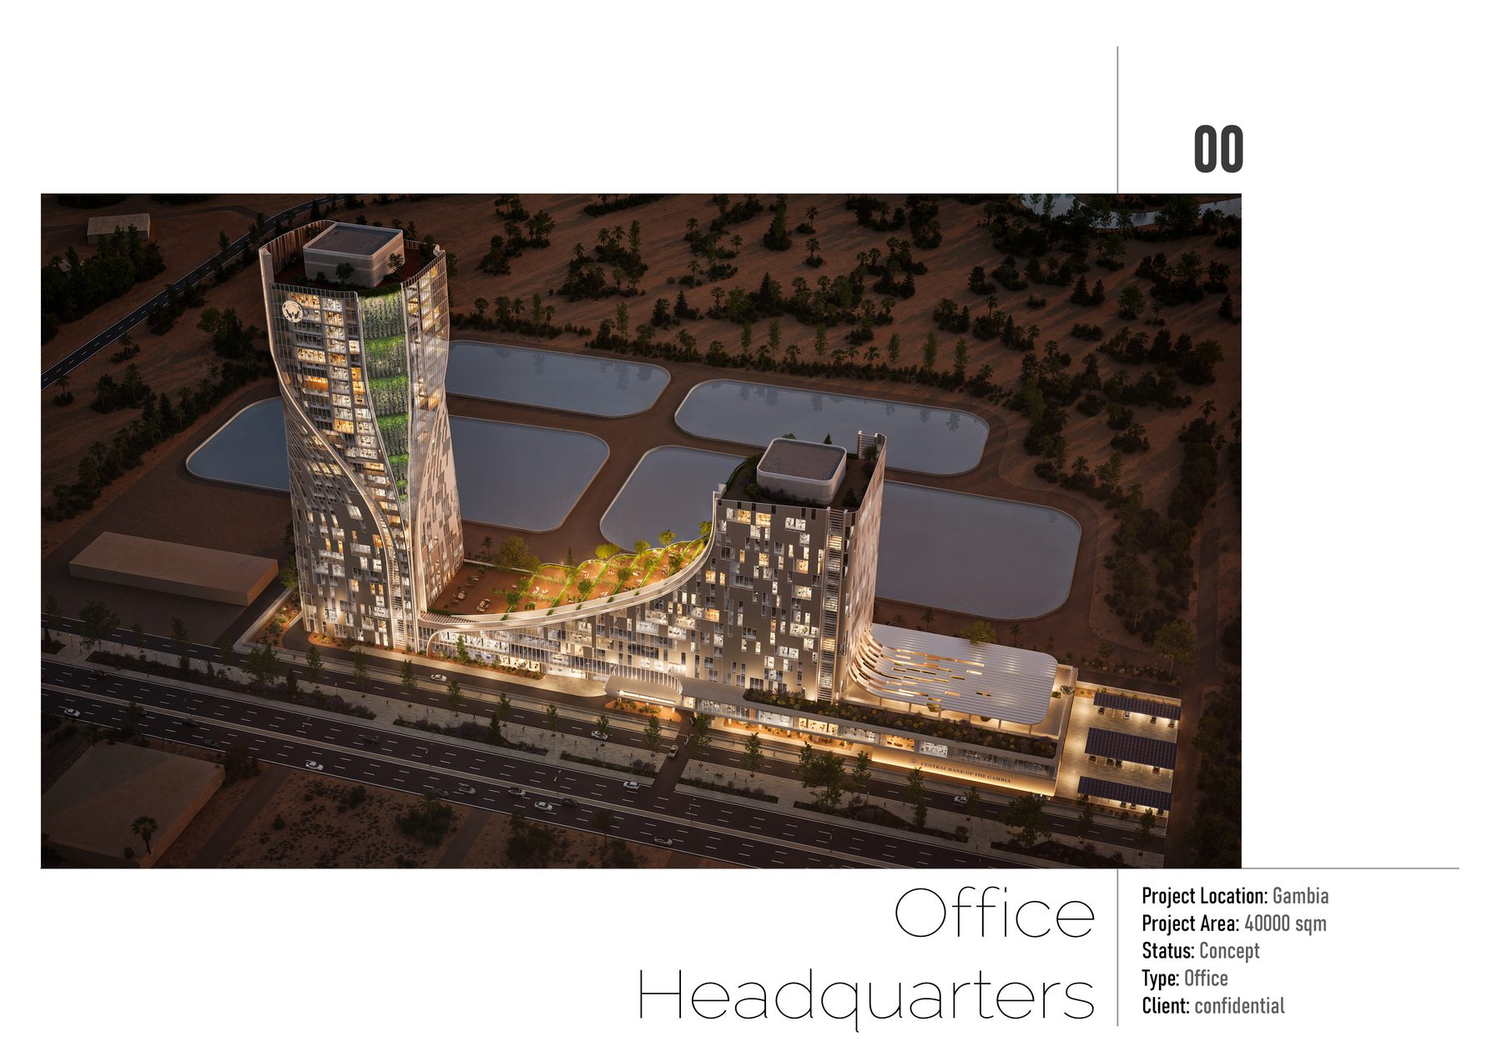
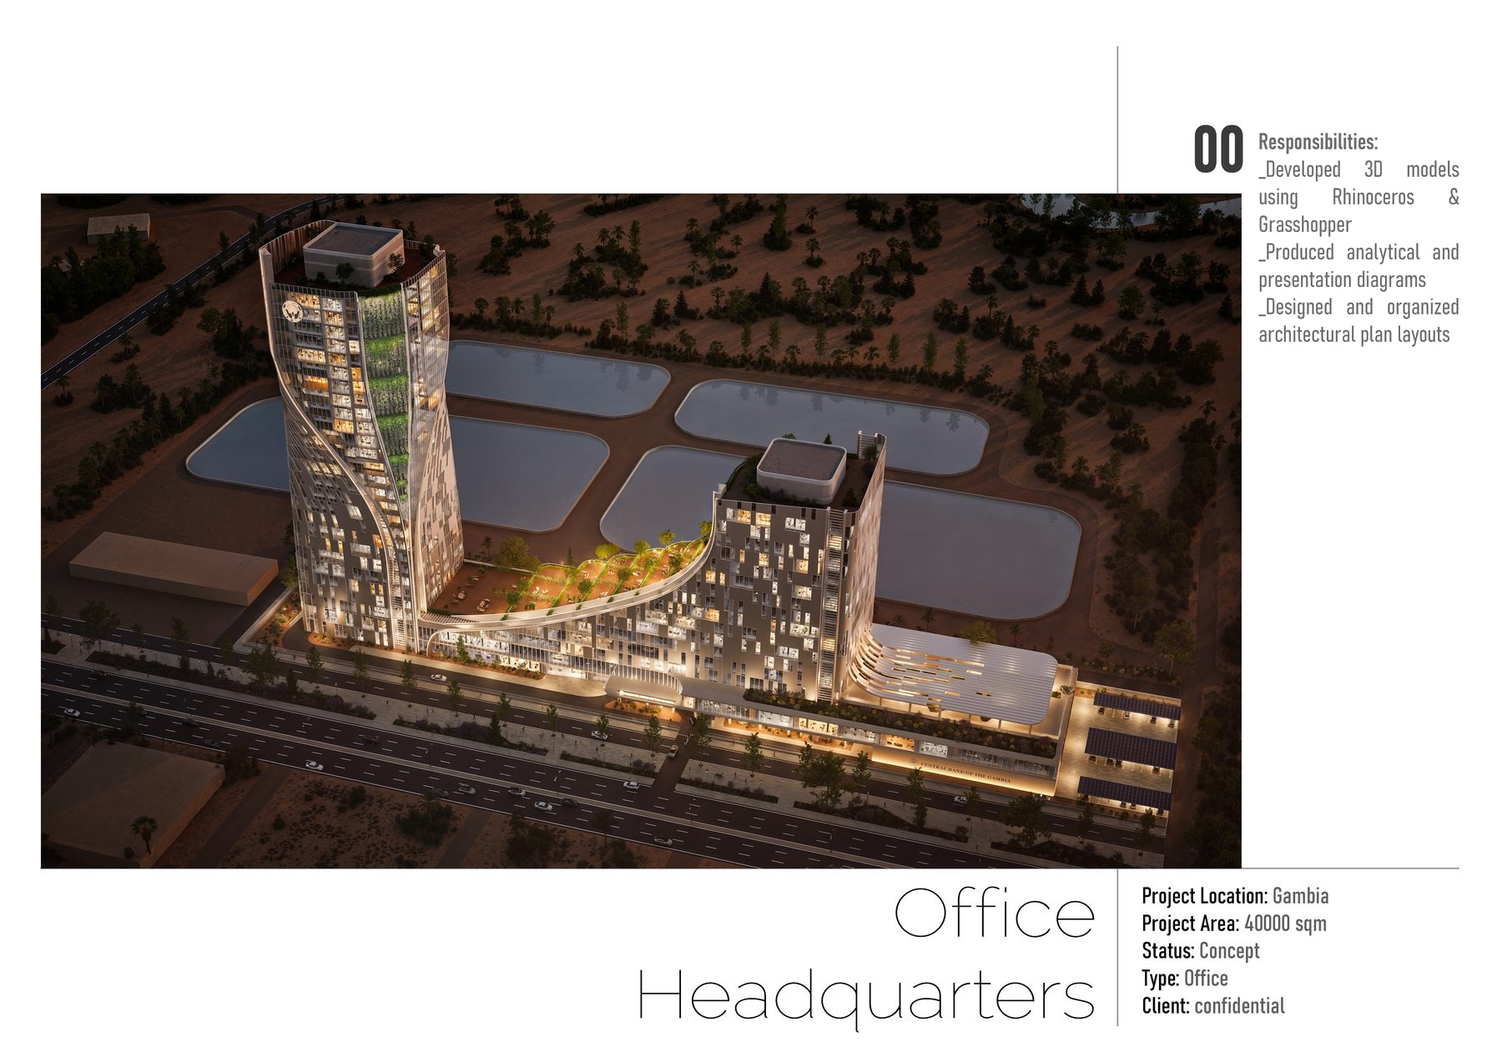
Masters/Professional: BIM projects, Program Sync + Heart pages, NKY responsibilities
Add BIM & Smart Construction cards (Hyperbuilding 02 The Heart, Program
Sync). Rework Program Sync: merged problem/solution and workflow into
large horizontal drag-scroll galleries, written success criteria, Vue
app after results. Rebuild the studio page as Hyperbuilding 02, The
Heart, focused on Program definition and KPI-driven design; combine
design intent and site side by side and remove the stray Hyperbuilding
03 label. Add responsibilities block to the Central Bank board on
Professional. Add large hscroll variant to styles.

Changed region(s): [[0.84, 0.1225, 0.9644, 0.337]]

diff --git a/masters-bimsc-studio.html b/masters-bimsc-studio.html
@@ -3,8 +3,8 @@
 <head>
   <meta charset="UTF-8" />
   <meta name="viewport" content="width=device-width, initial-scale=1.0" />
-  <title>Nihan Malkoç, Vertical Machine (BIM Studio)</title>
-  <meta name="description" content="Vertical Machine, a closed-loop cluster of hyperbuildings for Santiago, Chile. BIM & Smart Construction studio, MaCAD, IAAC." />
+  <title>Nihan Malkoç, Hyperbuilding 02 The Heart (BIM Studio)</title>
+  <meta name="description" content="Hyperbuilding 02, The Heart, a program-integrated transit hub in the Vertical Machine cluster for Santiago. Program definition and KPI-driven design, BIM & Smart Construction studio, MaCAD, IAAC." />
   <link rel="preconnect" href="https://fonts.googleapis.com" />
   <link rel="preconnect" href="https://fonts.gstatic.com" crossorigin />
   <link href="https://fonts.googleapis.com/css2?family=Inter:wght@300;400;500;600;700&display=swap" rel="stylesheet" />
@@ -36,91 +36,112 @@
     <section class="section works">
       <div class="section-head">
         <span class="section-index">02</span>
-        <h2 class="section-title">Vertical Machine</h2>
-        <span class="works-sub">BIM &amp; Smart Construction · Studio</span>
+        <h2 class="section-title">Hyperbuilding 02, The Heart</h2>
+        <span class="works-sub">Program &amp; KPIs · Vertical Machine · BIMSC Studio</span>
       </div>
 
       <div class="tp-intro" data-reveal>
         <p class="tp-lead-big">
-          Santiago's basin traps smog, fragments communities, and strains resources.
-          <b>Vertical Machine</b> answers with a cluster of three hyperbuildings, a
-          closed-loop urban metabolism where each building behaves like an organ:
-          the <b>Lungs</b> (HB01) filter air, the <b>Heart</b> (HB02) pumps circulation
-          and energy, and the <b>Cells</b> (HB03) hold spatial and social life. I worked
-          on the <b>Program team of Hyperbuilding 02, The Heart</b>.
+          <b>Vertical Machine</b> is a cluster of three hyperbuildings for Santiago,
+          conceived as a closed-loop urban body: the <b>Lungs</b> (HB01) filter air and
+          water, the <b>Heart</b> (HB02) moves people and energy, and the <b>Cells</b>
+          (HB03) hold daily life, all linked by a shared data nervous system. This page is
+          <b>Hyperbuilding 02, The Heart</b>, a program-integrated transit hub, where I
+          worked on the <b>Program team</b>, responsible for program definition and
+          KPI-driven design.
         </p>
 
         <ul class="feat-row">
           <li>
+            <svg viewBox="0 0 24 24" fill="none" stroke="currentColor" stroke-width="1.6" aria-hidden="true"><path d="M4 5h7v7H4zM13 5h7v4h-7zM13 12h7v7h-7zM4 15h7v4H4z" stroke-linejoin="round"/></svg>
+            <div><strong>Program definition</strong><span>mobility and data turned into zoning</span></div>
+          </li>
+          <li>
+            <svg viewBox="0 0 24 24" fill="none" stroke="currentColor" stroke-width="1.6" aria-hidden="true"><path d="M4 20V4M4 20h16M8 17v-5M12 17V8M16 17v-9" stroke-linecap="round"/></svg>
+            <div><strong>KPI-driven design</strong><span>every move argued with numbers</span></div>
+          </li>
+          <li>
             <svg viewBox="0 0 24 24" fill="none" stroke="currentColor" stroke-width="1.6" aria-hidden="true"><path d="M12 21C7 17 4 13 4 9a4 4 0 0 1 8-1 4 4 0 0 1 8 1c0 4-3 8-8 12z" stroke-linejoin="round"/></svg>
-            <div><strong>Buildings as organs</strong><span>a closed-loop urban body</span></div>
-          </li>
-          <li>
-            <svg viewBox="0 0 24 24" fill="none" stroke="currentColor" stroke-width="1.6" aria-hidden="true"><circle cx="6" cy="6" r="2.4"/><circle cx="18" cy="18" r="2.4"/><path d="M8 7.6c4 1 6 3 8 8.4M6 8.4V18h9" stroke-linecap="round"/></svg>
-            <div><strong>Live BIM coordination</strong><span>Speckle model sync across teams</span></div>
-          </li>
-          <li>
-            <svg viewBox="0 0 24 24" fill="none" stroke="currentColor" stroke-width="1.6" aria-hidden="true"><path d="M4 20V4M4 20h16M8 17v-5M12 17V8M16 17v-8" stroke-linecap="round"/></svg>
-            <div><strong>Data-driven program</strong><span>KPI families guide every floor</span></div>
+            <div><strong>Transit hub</strong><span>153,000 daily travellers, eight modes</span></div>
           </li>
         </ul>
 
         <p class="tp-team">
-          <b>Studio:</b> multidisciplinary BIMSC26 studio (Data · Program · Structure &amp; Facade teams)
+          <b>Program team:</b> Nihan Malkoç · Sushmitha Ravi · Marina Osmolovska
+          &nbsp;·&nbsp; <b>Studio:</b> BIMSC26, with the Data and Structure &amp; Facade teams
           &nbsp;·&nbsp; <b>Faculty:</b> Pablo Antuña Molina · Cristóbal Burgos Sanhueza · Hari Krishnan
         </p>
       </div>
 
       <div class="wide-img" data-reveal>
-        <img src="masters/bimsc-studio/img/hero.jpg" alt="Vertical Machine, final massing, three hyperbuildings over Santiago" loading="lazy" />
+        <img src="masters/bimsc-studio/img/hero.jpg" alt="Vertical Machine, final massing of the three hyperbuildings over Santiago" loading="lazy" />
       </div>
 
-      <!-- The city as a body -->
-      <h3 class="works-heading">The City as a Body</h3>
-      <p class="tp-p">The problem is metabolic, so the solution is too. Three artificial organs purify air and water, circulate energy, and support adaptive living, connected by a shared data nervous system so the cluster behaves as one living system rather than three isolated towers.</p>
+      <!-- Design intent & site -->
+      <h3 class="works-heading">Design Intent &amp; Site</h3>
+      <p class="tp-p">The problem is metabolic, so the solution is too: three artificial organs purify air and water, circulate energy and support adaptive living, connected by a shared data system so the cluster behaves as one living body. The Heart sits on a <b>93,146&nbsp;m²</b> plot in Providencia, Santiago, next to the iconic <b>Torres de Tajamar</b> and wrapped by metro, hospitals, universities and the Mapocho river, a district shaped by a century of Chilean high-rise and earthquake engineering.</p>
       <div class="img-row">
         <img src="masters/bimsc-studio/img/intent.jpg" alt="Design intent, Lungs / Heart / Cells organ diagram" loading="lazy" />
-      </div>
-
-      <!-- Site -->
-      <h3 class="works-heading">Site, Providencia, Santiago</h3>
-      <p class="tp-p">A 93,146&nbsp;m² plot in Providencia, next to the iconic <b>Torres de Tajamar</b>, wrapped by metro, hospitals, universities and the Mapocho river, a district shaped by a century of Chilean high-rise and earthquake engineering.</p>
-      <div class="img-row">
         <img src="masters/bimsc-studio/img/site.jpg" alt="Site analysis, Providencia, Santiago de Chile" loading="lazy" />
       </div>
 
-      <!-- HB02 concept -->
-      <h3 class="works-heading">Hyperbuilding 02, The Heart</h3>
-      <p class="tp-p">The Heart is a <b>program-integrated transit hub</b>, a central engine concentrating 153,000 daily travellers across eight transit modes. Its massing is derived directly from the existing circulation and site boundary, with vertical cores aligned to the primary transit corridor to strengthen urban connectivity. Just as a heart distributes blood, the building distributes people, assets, energy and data to the rest of the cluster.</p>
+      <!-- Why the Heart -->
+      <h3 class="works-heading">Why the Heart</h3>
+      <p class="tp-p">The Heart is a <b>program-integrated transit hub</b> concentrating <b>153,000 daily travellers</b> across eight transit modes. Its massing is derived directly from the existing circulation and the site boundary, with vertical cores aligned to the primary transit corridor. Just as a heart pumps blood, the building pumps <b>people, energy and data</b> to the lungs and cells of the cluster.</p>
       <div class="img-row">
-        <img src="masters/bimsc-studio/img/concept.jpg" alt="Hyperbuilding 02 massing concept" loading="lazy" />
+        <img src="masters/bimsc-studio/img/concept.jpg" alt="Hyperbuilding 02 massing concept, derived from circulation" loading="lazy" />
       </div>
 
-      <!-- Program distribution -->
-      <h3 class="works-heading">Program Distribution</h3>
-      <p class="tp-p">On the Program team I translated data and mobility networks into spatial and zoning logic, organising circulation, program zoning and adjacencies. Parking, the transit hub, the transport HQ, hotel, retail and co-working stack according to an adjacency matrix that keeps the most connected functions closest.</p>
+      <!-- Three teams, brief -->
+      <h3 class="works-heading">Three Teams, One Model</h3>
+      <p class="tp-p">The Heart was developed by three teams on one shared model. The <b>Data</b> team set the KPI framework and the pipeline that keeps every metric live; the <b>Program</b> team (mine) turned mobility and data into spatial and zoning logic; and the <b>Structure &amp; Facade</b> team translated that program into an efficient megastructure and a solar-driven facade. Each team defined and designed against its <b>own KPI family</b>.</p>
+
+      <!-- Program definition -->
+      <h3 class="works-heading">Program Definition</h3>
+      <p class="tp-p">On the Program team I translated mobility networks and demographic data into spatial and zoning logic, organising circulation, program zoning and adjacencies. Parking, the transit hub, the transport HQ, hotel, retail and co-working stack according to an <b>adjacency matrix</b> that keeps the most connected functions closest, scored as neutral, desirable or mandatory.</p>
       <div class="img-row">
         <img src="masters/bimsc-studio/img/program.jpg" alt="Program distribution, adjacency diagram" loading="lazy" />
       </div>
+      <p class="tp-p">The program was built in four data-driven steps:</p>
+      <ul class="feat-row">
+        <li>
+          <svg viewBox="0 0 24 24" fill="none" stroke="currentColor" stroke-width="1.6" aria-hidden="true"><path d="M4 5h7v7H4zM13 5h7v4h-7zM13 12h7v7h-7zM4 15h7v4H4z" stroke-linejoin="round"/></svg>
+          <div><strong>01 · Program elements</strong><span>functions and their areas</span></div>
+        </li>
+        <li>
+          <svg viewBox="0 0 24 24" fill="none" stroke="currentColor" stroke-width="1.6" aria-hidden="true"><ellipse cx="12" cy="6" rx="7" ry="3"/><path d="M5 6v12c0 1.7 3.1 3 7 3s7-1.3 7-3V6M5 12c0 1.7 3.1 3 7 3s7-1.3 7-3" stroke-linecap="round"/></svg>
+          <div><strong>02 · Data collection</strong><span>mobility, demographics, climate</span></div>
+        </li>
+        <li>
+          <svg viewBox="0 0 24 24" fill="none" stroke="currentColor" stroke-width="1.6" aria-hidden="true"><path d="M4 20V4M4 20h16M8 17v-5M12 17V8M16 17v-9" stroke-linecap="round"/></svg>
+          <div><strong>03 · KPIs</strong><span>metrics to judge each option</span></div>
+        </li>
+        <li>
+          <svg viewBox="0 0 24 24" fill="none" stroke="currentColor" stroke-width="1.6" aria-hidden="true"><circle cx="12" cy="12" r="8"/><circle cx="12" cy="12" r="3"/></svg>
+          <div><strong>04 · Optimization</strong><span>stack tuned to the numbers</span></div>
+        </li>
+      </ul>
 
       <!-- KPIs -->
-      <h3 class="works-heading">Data-Driven Design Decisions</h3>
-      <p class="tp-p">Every program decision is scored against KPI families, so the design is argued with numbers rather than intuition, <b>ISR</b> (Incident Solar Radiation), <b>PII</b> (Program Interaction Index), <b>NGRER</b> (Net-to-Gross Efficiency Ratio), <b>CFTT</b> (Core-to-Floor Travel Time) and a <b>Floor Requirement Calculator</b> that sizes each level against spatial efficiency, sustainability and daylight.</p>
+      <h3 class="works-heading">KPI-Driven Design Decisions</h3>
+      <p class="tp-p">Every program decision is argued with numbers rather than intuition. The Program team defined its own KPI family: <b>PII</b> (Program Interaction Index), <b>VMEI</b> (Vertical Mobility Efficiency Index), <b>NGRER</b> (Net-to-Gross Efficiency Ratio), <b>CFTT</b> (Core-to-Floor Travel Time) and a <b>Floor Requirement Calculator (FRC)</b> that sizes each level against spatial efficiency, sustainability and daylight. Alongside, the Data team framed the shared families of CFAR, ERP, MI and MUI, and the Structure &amp; Facade team added SER and LPCI.</p>
       <div class="img-row">
-        <img src="masters/bimsc-studio/img/kpi.jpg" alt="Data-driven design decision making, KPIs" loading="lazy" />
+        <img src="masters/bimsc-studio/img/kpi.jpg" alt="Data-driven design decision making, program KPIs" loading="lazy" />
         <img src="masters/bimsc-studio/img/towers.jpg" alt="Program stacked from podium to towers" loading="lazy" />
       </div>
-      <p class="tp-p">Downstream, the Structure &amp; Facade team pushed the same massing through <b>topology optimization</b>, removing material where it isn't needed until an efficient megastructure emerges from the program envelope.</p>
+
+      <!-- Structure downstream, brief -->
+      <h3 class="works-heading">From Program to Megastructure</h3>
+      <p class="tp-p">Downstream, the Structure &amp; Facade team pushed the same massing through <b>topology optimization</b>, removing material where it is not needed until an efficient megastructure of slabs, cores and diagrid emerges from the program envelope.</p>
       <div class="img-row">
         <img src="masters/bimsc-studio/img/topology.gif" alt="Structural topology optimization of the tower (animated)" loading="lazy" />
       </div>
 
-      <!-- Coordination -->
-      <h3 class="works-heading">BIM Coordination</h3>
-      <p class="tp-p">The whole studio worked on one federated model tree in <b>Speckle</b>, global coordination at massing LOD, local coordination at LOD 200–300. When one team moves a column or edits a program block, the change propagates automatically to everyone downstream: no file requests, no downtime, no rework.</p>
+      <!-- Coordination, brief -->
+      <h3 class="works-heading">One Federated Model</h3>
+      <p class="tp-p">The whole studio worked on a single federated model in <b>Speckle</b>, global coordination at massing level and local coordination at LOD 200 to 300, so a change by one team propagates to everyone downstream without file requests or rework.</p>
       <div class="img-row">
         <img src="masters/bimsc-studio/img/coordination.jpg" alt="BIM coordination, federated Speckle model tree" loading="lazy" />
-        <img src="masters/bimsc-studio/img/dashboard.jpg" alt="Users interface, dashboard, KPIs and collaboration" loading="lazy" />
       </div>
     </section>
   </main>

diff --git a/masters-collaborative.html b/masters-collaborative.html
@@ -70,30 +70,29 @@
         </p>
       </div>
 
-      <!-- Problem -->
-      <h3 class="works-heading">The Problem</h3>
-      <p class="tp-p">On a live project, program data is scattered: time-consuming manual workflows, spreadsheets maintained by hand, inconsistent reporting formats and delayed decisions, all with no real-time way to monitor whether the model still meets its program.</p>
-      <div class="img-row">
-        <img src="masters/colloborative/img/problem.jpg" alt="Problem statement, manual, fragmented program data" loading="lazy" />
+      <!-- Problem & Solution -->
+      <h3 class="works-heading">The Problem &amp; The Solution</h3>
+      <p class="tp-p">On a live project, program data is scattered: time-consuming manual workflows, spreadsheets maintained by hand, inconsistent reporting formats and delayed decisions, with no real-time way to check whether the model still meets its program. Program Sync answers with one automation that validates program distribution across floors, computes area-based KPIs, and extracts program area and occupancy data into a structured report, in Excel or Google Sheets, at the press of a button.</p>
+      <div class="hscroll lg" data-reveal>
+        <img src="masters/colloborative/img/problem.jpg" alt="The problem, manual and fragmented program data" loading="lazy" />
         <img src="masters/colloborative/img/users.jpg" alt="Target users, BIM coordinators and design teams" loading="lazy" />
+        <img src="masters/colloborative/img/solution.jpg" alt="The solution, one-click program validation" loading="lazy" />
       </div>
 
-      <!-- Solution -->
-      <h3 class="works-heading">The Solution</h3>
-      <p class="tp-p">One automation analyses the BIM model to validate program distribution across floors and calculate area-based KPIs, then extracts program area and occupancy data and generates a structured report, in Excel or Google Sheets, at the press of a button.</p>
-      <div class="img-row">
-        <img src="masters/colloborative/img/solution.jpg" alt="Proposed solution, one-click program validation" loading="lazy" />
-      </div>
-
-      <!-- How it works -->
+      <!-- How it works / workflow -->
       <h3 class="works-heading">How It Works</h3>
       <p class="tp-p">The pipeline chains the tools each team already uses: <b>Revit → Rhino.Inside.Revit → Speckle → Python → Speckle Automation → a custom Vue website</b>. Family blocks and types set the parameters up front; the automation reads them, generates the program blocks and pie-chart breakdowns, and serves the results to the web, front end and back end kept in lockstep.</p>
-      <div class="img-row">
-        <img src="masters/colloborative/img/frontend.jpg" alt="How it works, front-end pipeline" loading="lazy" />
-        <img src="masters/colloborative/img/backend.jpg" alt="How it works, back-end pipeline" loading="lazy" />
-      </div>
-      <div class="img-row">
+      <div class="hscroll lg" data-reveal>
+        <img src="masters/colloborative/img/frontend.jpg" alt="Workflow, front-end pipeline" loading="lazy" />
+        <img src="masters/colloborative/img/backend.jpg" alt="Workflow, back-end pipeline" loading="lazy" />
         <img src="masters/colloborative/img/generator.jpg" alt="Pie-chart generator and program blocks" loading="lazy" />
+      </div>
+
+      <!-- Results -->
+      <h3 class="works-heading">Automation Results</h3>
+      <p class="tp-p">The output organises program data from the BIM model into clean tables and charts, easy to track areas and floors, and reliable enough for other teams to build on. What used to take hours of manual processing collapses to a few minutes, with consistent, repeatable results on every model version.</p>
+      <div class="img-row">
+        <img src="masters/colloborative/img/results.jpg" alt="Automation results, program tables and charts" loading="lazy" />
       </div>
 
       <!-- Speckle + Vue -->
@@ -103,13 +102,26 @@
         <img src="masters/colloborative/img/vue.jpg" alt="Speckle plus custom Vue app, live preview" loading="lazy" />
       </div>
 
-      <!-- Results -->
-      <h3 class="works-heading">Automation Results</h3>
-      <p class="tp-p">The output organises program data from the BIM model into clean tables and charts, easy to track areas and floors, and reliable enough for other teams to build on. What used to take hours of manual processing collapses to a few minutes, with consistent, repeatable results on every model version.</p>
-      <div class="img-row">
-        <img src="masters/colloborative/img/results.jpg" alt="Automation results, program tables and charts" loading="lazy" />
-        <img src="masters/colloborative/img/success.jpg" alt="Success criteria" loading="lazy" />
-      </div>
+      <!-- Success criteria -->
+      <h3 class="works-heading">Success Criteria</h3>
+      <ul class="feat-row">
+        <li>
+          <svg viewBox="0 0 24 24" fill="none" stroke="currentColor" stroke-width="1.7" aria-hidden="true"><path d="M20 6L9 17l-5-5" stroke-linecap="round" stroke-linejoin="round"/></svg>
+          <div><strong>Accurate data extraction</strong><span>Correct outputs with no missing data.</span></div>
+        </li>
+        <li>
+          <svg viewBox="0 0 24 24" fill="none" stroke="currentColor" stroke-width="1.7" aria-hidden="true"><path d="M20 6L9 17l-5-5" stroke-linecap="round" stroke-linejoin="round"/></svg>
+          <div><strong>Less manual processing</strong><span>Review time drops from hours to a few minutes.</span></div>
+        </li>
+        <li>
+          <svg viewBox="0 0 24 24" fill="none" stroke="currentColor" stroke-width="1.7" aria-hidden="true"><path d="M20 6L9 17l-5-5" stroke-linecap="round" stroke-linejoin="round"/></svg>
+          <div><strong>Clear program insights</strong><span>Program distribution, floor allocation and occupancy read at a glance.</span></div>
+        </li>
+        <li>
+          <svg viewBox="0 0 24 24" fill="none" stroke="currentColor" stroke-width="1.7" aria-hidden="true"><path d="M20 6L9 17l-5-5" stroke-linecap="round" stroke-linejoin="round"/></svg>
+          <div><strong>Consistent, repeatable outputs</strong><span>Every model version regenerates updated reports and charts automatically.</span></div>
+        </li>
+      </ul>
     </section>
   </main>
 

diff --git a/masters.html b/masters.html
@@ -81,7 +81,25 @@
 
       <!-- BIM & Smart Construction -->
       <h3 class="works-heading">BIM &amp; Smart Construction</h3>
-      <p class="proj-soon">Projects coming soon.</p>
+      <p class="tp-p">Integrative modelling, collaborative automation and cloud-based data management, from a hyperbuilding studio to tools that plug into the delivery workflow.</p>
+      <div class="mt-grid">
+        <a class="mt-item" href="masters-bimsc-studio.html">
+          <img src="masters/bimsc-studio/img/hero.jpg" alt="Hyperbuilding 02, The Heart" loading="lazy" />
+          <div class="mt-txt">
+            <strong>Hyperbuilding 02, The Heart</strong>
+            <span>Program &amp; KPIs · BIMSC Studio</span>
+            <p>The Heart of a three-building Vertical Machine cluster in Santiago, a transit hub for 153,000 daily travellers. On the Program team I handled program definition and KPI-driven design.</p>
+          </div>
+        </a>
+        <a class="mt-item" href="masters-collaborative.html">
+          <img src="masters/colloborative/img/results.jpg" alt="Program Sync" loading="lazy" />
+          <div class="mt-txt">
+            <strong>Program Sync</strong>
+            <span>BIM automation · Collaborative Workflows</span>
+            <p>A one-click automation that reads a BIM model, validates its program and pushes area-based KPIs straight to Excel or Google Sheets.</p>
+          </div>
+        </a>
+      </div>
 
       <!-- Advanced Computation for Design -->
       <h3 class="works-heading">Advanced Computation for Design</h3>

diff --git a/styles.css b/styles.css
@@ -510,6 +510,9 @@ main, .site-header, .menu-overlay, .contact { position: relative; z-index: 1; }
 /* yatay kaydirmali galeri (case paftalari), mouse ile surukle-kaydir */
 .hscroll { display: flex; gap: 1rem; overflow-x: auto; margin: 1rem 0 .4rem; padding-bottom: 1rem; scrollbar-width: thin; cursor: grab; -webkit-overflow-scrolling: touch; }
 .hscroll img { flex: 0 0 auto; width: min(78vw, 540px); height: auto; display: block; border: 1px solid var(--line); background: #fff; cursor: zoom-in; -webkit-user-drag: none; user-select: none; }
+/* buyuk varyant: tek tek buyuk gorsel, yana kaydirarak degisir */
+.hscroll.lg { scroll-snap-type: x proximity; }
+.hscroll.lg img { width: min(90vw, 940px); scroll-snap-align: center; }
 .flow { cursor: grab; }
 .hscroll.dragging, .flow.dragging { cursor: grabbing; }
 .hscroll.dragging img, .flow.dragging img { cursor: grabbing; }
